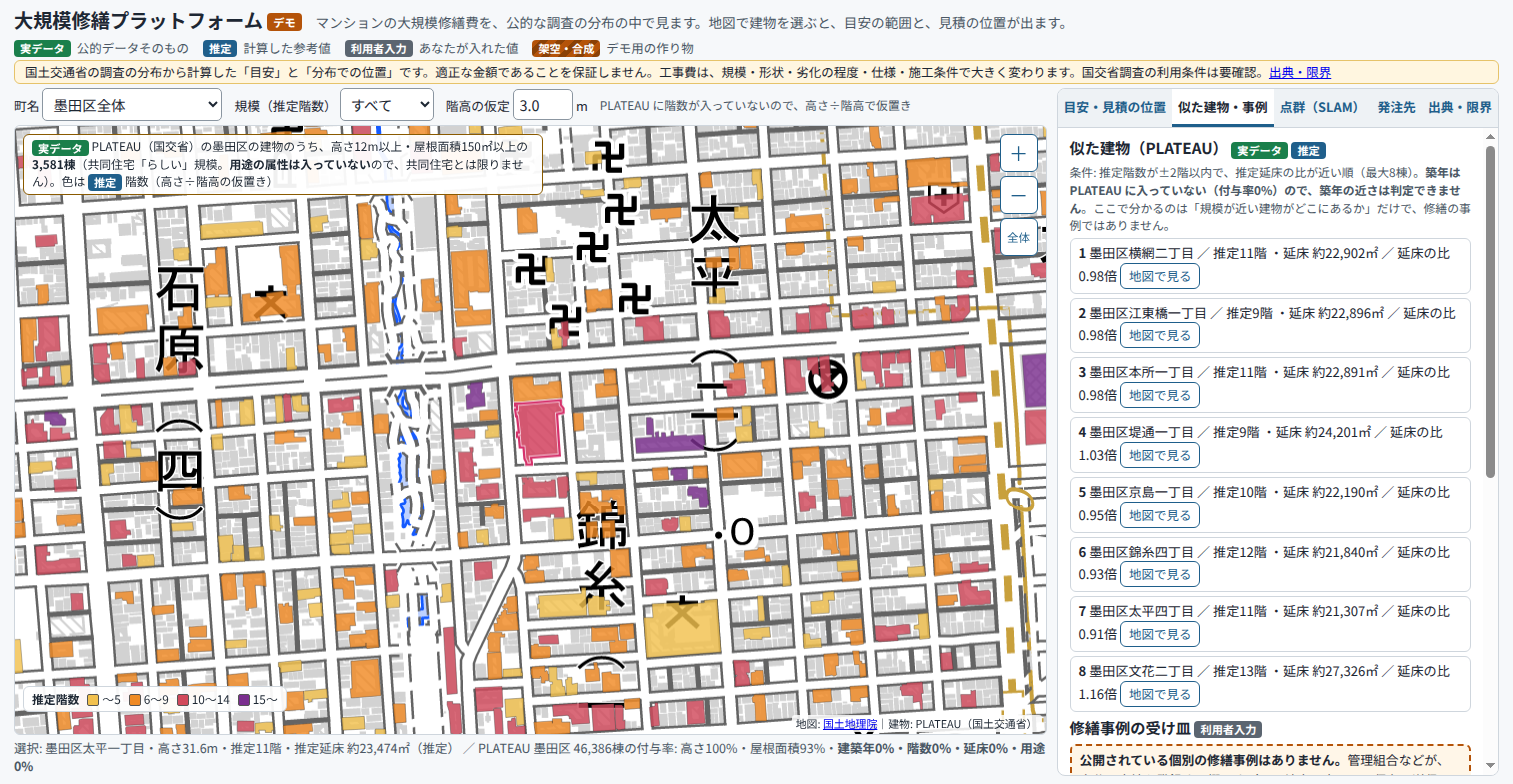
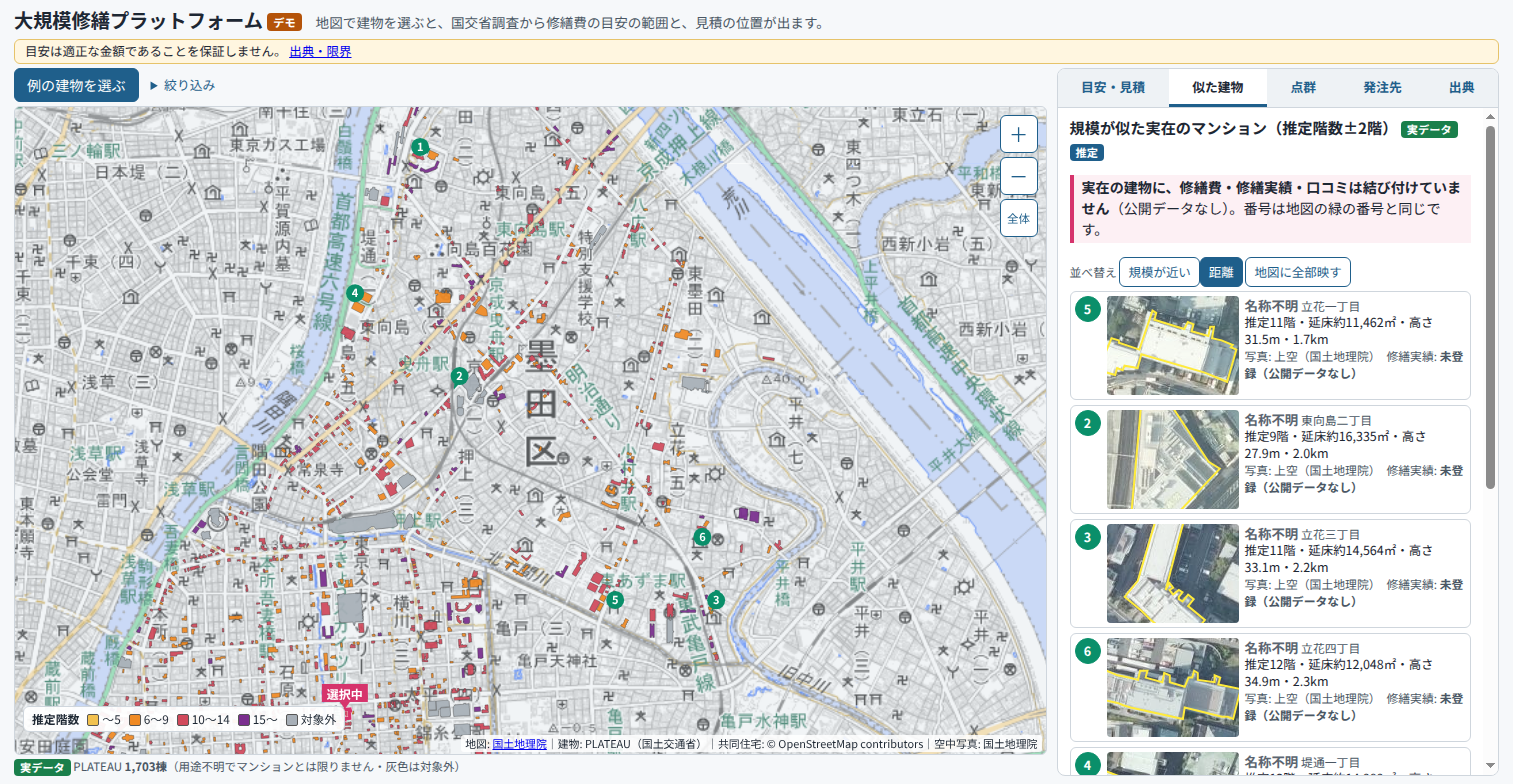
大規模修繕: 地図に全部映すボタン・README・画面確認の画像・外観写真の探索結果（採用0）

diff --git a/contests/ichibiz-2026/app/repair-platform/web/app.js b/contests/ichibiz-2026/app/repair-platform/web/app.js
@@ -448,15 +448,16 @@
       const key = { near: null, km: (x) => (x.km == null ? 1e9 : x.km) }[state.simSort];
       const rows = key ? state.simList.slice().sort((a, b) => key(a) - key(b)) : state.simList;
       const sb = (k, label) => '<button type="button" class="pick' + (state.simSort === k ? ' on' : '') + '" data-sort="' + k + '" aria-pressed="' + (state.simSort === k) + '">' + label + '</button>';
-      h += '<p class="mini">並べ替え ' + sb('near', '規模が近い') + sb('km', '距離') + '</p>';
+      h += '<p class="mini">並べ替え ' + sb('near', '規模が近い') + sb('km', '距離') + ' <button type="button" class="pick" id="fitSim">地図に全部映す</button></p>';
       h += '<ul class="aptgrid">' + rows.map(simCard).join('') + '</ul>';
     }
     h += '<details class="mini"><summary>出典・選び方</summary><ul class="list">' +
       '<li>「マンション」= OpenStreetMap で建物の種別が共同住宅（apartments・residential・dormitory）とされ、PLATEAU の建物の内側に位置が入ったもの' + (om ? '（墨田区 ' + L.fmt(om.osmWays, 0) + ' 件のうち、地図に出る規模の ' + L.fmt(om.matched, 0) + ' 棟。名前があるのは ' + L.fmt(om.named, 0) + ' 棟）' : '') + '。名前は OpenStreetMap にあるものだけ。無いものは「名称不明」（町丁目で区別）。住戸・居住者の情報は扱いません。</li>' +
-      '<li>上空写真: <a href="https://maps.gsi.go.jp/development/ichiran.html" target="_blank" rel="noopener noreferrer">国土地理院 シームレス空中写真</a>（建物の外形線は PLATEAU）。外観写真は Wikimedia Commons で商用利用できるライセンスのものが見つかった建物だけ。</li>' +
+      '<li>上空写真: <a href="https://maps.gsi.go.jp/development/ichiran.html" target="_blank" rel="noopener noreferrer">国土地理院 シームレス空中写真</a>（建物の外形線は PLATEAU）。外観写真は Wikimedia Commons で商用利用できるライセンスのものが見つかった建物だけ（今は0棟。上空写真のみ）。</li>' +
       '<li>名称・種別: © <a href="https://www.openstreetmap.org/copyright" target="_blank" rel="noopener noreferrer">OpenStreetMap contributors</a>（ODbL）。階数・延床は PLATEAU の高さ・屋根面積からの推定。</li></ul></details>';
     $('simOut').innerHTML = h;
     bindPicks($('simOut'));
+    if ($('fitSim')) $('fitSim').onclick = () => { fitTo(boundsOfList(state.simList.map((x) => x.b).concat(state.sel ? [state.sel] : [])), 40); schedule(); if (narrow()) { mapMin(false); map.scrollIntoView({ block: 'start' }); } };
     $('simOut').querySelectorAll('[data-sort]').forEach((b) => (b.onclick = () => { state.simSort = b.dataset.sort; renderSim(); }));
     renderCases();
   }
@@ -696,7 +697,7 @@
       '<li><b>修繕費の分布</b>: ' + esc(S.publisher) + '「' + esc(S.title) + '」（<a href="' + esc(S.reportUrl) + '" target="_blank" rel="noopener noreferrer">報告書</a>、<a href="' + esc(S.summaryUrl) + '" target="_blank" rel="noopener noreferrer">概要</a>）を転記。<b>' + esc(S.license) + '</b>。</li>' +
       '<li><b>地図</b>: <a href="https://maps.gsi.go.jp/development/ichiran.html" target="_blank" rel="noopener noreferrer">国土地理院 地理院タイル（淡色地図）</a>。</li>' +
       '<li><b>共同住宅・名称</b>: © <a href="https://www.openstreetmap.org/copyright" target="_blank" rel="noopener noreferrer">OpenStreetMap contributors</a>（ODbL。Overpass API の GET で取得し、PLATEAU の建物と位置で突き合わせて同梱）。</li>' +
-      '<li><b>上空写真</b>: 国土地理院 シームレス空中写真（地理院タイルを表示時に取得）。<b>外観写真</b>: Wikimedia Commons（作者・ライセンスを各写真の下に表示' + (state.photoMeta ? '。' + state.photos.size + '棟' : '') + '）。</li></ul></details>';
+      '<li><b>上空写真</b>: 国土地理院 シームレス空中写真（地理院タイルを表示時に取得）。<b>外観写真</b>: Wikimedia Commons（作者・ライセンスを各写真の下に表示。現在の採用は ' + state.photos.size + ' 棟。半径60m の検索では建物そのものの写真が見つからなかった）。</li></ul></details>';
     h += '<details><summary>限界・プライバシー・表示の区別</summary><ul class="list"><li>' + esc(L.DISCLAIMER) + '。' + esc(L.LICENSE_NOTE) + '。' + esc(S.transcribed) + '</li><li>調査は200社・818件の工事事例で、全国を代表するとは限りません。金額は税抜・共通仮設費を含みません。</li><li>個別の修繕事例・口コミの実データは未収録で、見本は架空です。実在のマンションには修繕費・実績・口コミを結び付けていません。</li><li>階数・延床・戸数は推定（階高' + state.storeyH + 'm、1戸' + L.UNIT_SQM + '㎡の仮定）。推定' + L.SCALE_MAX.floors + '階超・延床' + L.fmt(L.SCALE_MAX.tfa, 0) + '㎡超は目安を出しません。外壁面積の誤差は未検証です。</li>' +
       '<li>入力・点群は端末内だけで扱い、送信しません。事例・口コミ・見積の比較・チェックだけ localStorage に保存します。通信は地図画像と同梱データの GET だけです。</li></ul>' +
       '<p class="mini">' + BADGE.real + ' 公的データ ' + BADGE.est + ' 計算した参考値 ' + BADGE.user + ' あなたの入力 ' + BADGE.fake + ' デモ用の作り物</p></details>';

diff --git a/contests/dashboard/src/apps/registry.ts b/contests/dashboard/src/apps/registry.ts
@@ -506,7 +506,7 @@ export const APPS: AppMeta[] = [
       { name: '背景地図', provider: '国土地理院 地理院タイル', license: '国土地理院コンテンツ利用規約' },
       { name: '共同住宅（種別・名称）', provider: '© OpenStreetMap contributors（Overpass API の GET で取得）', license: 'ODbL 1.0（出典表示。派生データも ODbL）', note: 'building=apartments・residential・dormitory の墨田区の建物を、PLATEAU の建物と位置で突き合わせて同梱。名称は OSM にあるものだけ。' },
       { name: '建物の上空写真', provider: '国土地理院 シームレス空中写真（地理院タイル）', license: '国土地理院コンテンツ利用規約（出典表示）', note: '表示時にブラウザが GET。建物の位置で切り出し、PLATEAU の外形線を重ねる。' },
-      { name: '建物の外観写真（見つかった建物だけ）', provider: 'Wikimedia Commons', license: '各写真の CC BY / CC BY-SA 等（作者・ライセンスをカードに表示）', note: '商用利用できるライセンスのものだけ。' },
+      { name: '建物の外観写真（見つかった建物だけ）', provider: 'Wikimedia Commons', license: '各写真の CC BY / CC BY-SA 等（作者・ライセンスをカードに表示）', note: '商用利用できるライセンスで、その建物を写したものだけ。検索したが該当する写真は見つからず、現在は0棟（上空写真のみ）。' },
     ],
   },
   {

diff --git a/contests/ichibiz-2026/app/repair-platform/README.md b/contests/ichibiz-2026/app/repair-platform/README.md
@@ -11,7 +11,7 @@
 |---|---|---|
 | 地図情報・建物情報 | 墨田区の PLATEAU の建物を地図に表示。建物を押すと、高さ・外周・推定階数・推定延床・外壁面積の概算 | 実データ＋推定 |
 | 適正料金を推定 | 「適正料金」は出さない。国交省調査の分布から、**目安の範囲**（下位25%値〜上位25%値）と、**見積の分布での位置**（中央値より◯%高い／上位25%に入る） | 実データ＋計算 |
-| 類似マンションの修繕情報 | 個別事例の公開データはない。PLATEAU で規模の近い建物を地図に番号で示す「似た建物」。修繕事例は、利用者が自分の実績を登録する受け皿（デモは架空と常に表示） | 実データ＋利用者入力＋架空 |
+| 類似マンションの修繕情報 | 個別事例の公開データはない。**規模の近い実在のマンション**（OpenStreetMap で共同住宅とされたもの）を、名前（あるものだけ）・町丁目・規模・上空写真つきの小さなカードで並べ、地図の番号と対応させる。**実在の建物に修繕費・実績・口コミは結び付けない**（各カードは「修繕実績: 未登録（公開データなし）」）。修繕事例は、利用者が自分の実績を登録する受け皿で、デモは「架空のデモ事例（実在の建物ではありません）」の別枠 | 実データ＋推定＋利用者入力＋架空 |
 | SLAM データ | PLY・LAS・XYZ の点群をブラウザの中で読み、外周・高さ・外壁面積を概算。見本は合成 | 利用者入力＋合成 |
 | 口コミ・価格で発注先を検討 | 公的情報へのリンク、見積比較のチェック項目、口コミの自己投稿の受け皿（デモは架空）。並びを操作できない設計 | 実データ（リンク）＋架空 |
 
@@ -19,6 +19,9 @@
 - **PLATEAU 建物**: 3D都市モデル（Project PLATEAU）東京都23区（2022年度）CityGML（v2）の建築物モデル（LOD1）。国土交通省。G空間情報センター https://www.geospatial.jp/ckan/dataset/plateau-tokyo23ku-2022 。ライセンスは PLATEAU Site Policy「3．著作権について」（https://www.mlit.go.jp/plateau/site-policy/ 、商用利用を含め無償）。**範囲は墨田区（13107）全域の 46,386 棟**。取得は HTTP Range の GET のみ（`tools/remotezip.py`。約5GB の ZIP の全体は取らず、墨田区に重なる56メッシュだけ読む）。
 - **国交省調査**: 国土交通省「令和3年度マンション大規模修繕工事に関する実態調査」報告書 https://www.mlit.go.jp/jutakukentiku/house/content/001619430.pdf と概要 https://www.mlit.go.jp/jutakukentiku/house/content/001477900.pdf 。200社・工事事例818件の集計。図表の数値を手で転記して `web/data/mlit-survey.json` に頁つきで同梱（報告書 p.13 総額、p.14 戸あたり、p.15 ㎡あたり、概要 p.1 内訳・修繕周期、報告書 p.56 発注方法）。工事金額は、共通仮設費と消費税を含まない（報告書 p.4、概要 p.1）。**この調査の二次利用条件は要確認**（情報部 R-2。PDF に表記がなく、確認できていない）。画面と本書に明記し、出典・加工（転記・計算）を表示している。
 - **地図**: 国土地理院 地理院タイル（淡色地図）。
+- **共同住宅・名称（2026-11-22 追加）**: © OpenStreetMap contributors（ODbL 1.0。https://www.openstreetmap.org/copyright ）。Overpass API の GET（`tools/fetch_osm.py`）で、墨田区の `building=apartments|residential|dormitory` の建物 6,293 件を取り、中心点が PLATEAU の候補建物（3,581 棟）の外形の内側に入るものだけを突き合わせた。**結果は 543 棟（apartments 468・residential 74・dormitory 1）、うち OSM に名前（name タグ）があるのは 81 棟**。1つの PLATEAU 建物に複数の OSM 建物が当たったときは名前のあるほうを残す。結果は `web/data/osm.json`（PLATEAU の建物ID・種別・名称）。名前は OSM にあるものだけで、補わない。名前の無い 462 棟は「名称不明」＋町丁目。PLATEAU の名称（124 棟）は学校・病院・郵便局などの公共施設で、共同住宅ではないので使わない。OSM の登録は不完全なので、実在のマンションの全部ではない（墨田区で地図に出る規模の建物 3,581 棟のうち 543 棟）。
+- **上空写真**: 国土地理院 シームレス空中写真（地理院タイル `seamlessphoto`、https://maps.gsi.go.jp/development/ichiran.html 、出典表示）。カードごとに、建物の位置を中心に z18 のタイル 4 枚から 132×99px を切り出し、PLATEAU の外形線（黄）を重ねる。ブラウザが表示時にタイルを GET するだけで、画像は同梱しない。
+- **外観写真**: Wikimedia Commons の CC BY / CC BY-SA / CC0 等で、作者・ライセンスを表示できるものだけに限る設計（`web/data/photos.json`、`tools/fetch_commons.py`）。**現在の採用は 0 棟**。名前のある 81 棟の半径 60m にある画像（座標つき）を探して候補 30 枚を得たが、いずれもスカイツリー・飲食店・駅など別のもので、その建物を写したものは無かった（目で確認）。見つからなかった建物に、近くの別の写真を付けることはしない。Google ストリートビュー等、規約上使えないものは使わない。
 - 不動産情報ライブラリは使っていない。
 
 ## PLATEAU の属性の付与率（情報部 R-4 の実測）
@@ -61,7 +64,7 @@
   - 建物を押すと、延床（推定）と戸数（推定: 延床÷70㎡の仮定）を入れ、すぐに目安の範囲を出す。推定の欄には「推定」の印。利用者が入れた値が優先。
   - 推定40階超・延床50,000㎡超は「マンションの規模ではない可能性が高い」として目安を出さない。延床800㎡未満は警告。いずれも設計上の線引きで、根拠のある統計値ではない。
   - 1戸あたり延床が30〜150㎡の外なら「戸数と延床が合っていません」と出し、延床あたりの範囲と位置は出さない。主指標は戸あたり（戸数が無ければ延床あたり）。総額の位置は「根拠」の中の参考に格下げ。中央値の10倍を超える比率は「桁を確認」。
-- タブ「似た建物」: 推定階数±2階で、延床・高さ・外周・距離が近い順（同じ町・同じ規模の重複はまとめる）。各棟に延床×㎡あたりの目安。修繕事例（見本・架空）は折りたたみ。
+- タブ「似た建物」: OSM で共同住宅とされた 543 棟のうち、推定階数±2階で、延床・高さ・外周・距離が近い 6 棟を小さなカードで並べる（同じ町・同じ規模の重複はまとめる。名前の分かる建物は規模の比で約16%の差までは先に並べる＝並びへのわずかな優遇。「規模が近い」「距離」で並べ替え、「地図に全部映す」で地図を引く）。カード＝番号（地図の緑の番号と同じ。押すとその建物を選ぶ）・上空写真・名前または「名称不明」・町丁目・推定階数・延床（推定）・高さ・距離・写真の種類（上空／外観）・「修繕実績: 未登録（公開データなし）」。**金額・口コミ・評価の数値は出さない**（旧版の「延床×㎡あたりの目安」の試算列は、実在の建物に金額が付くので廃止）。住戸・居住者の情報は扱わず、住所は町丁目まで。修繕事例（見本）は別枠で「架空のデモ事例（実在の建物ではありません）」。
 - タブ「点群」: 見本の読み込みを先頭に。限界は1行（詳細は折りたたみ）。結果は外壁面積と、点群・地図の外壁面積それぞれで「見積の外壁関係（調査の平均比率で配分）÷面積」の単価の表。
 - タブ「発注先比較」: 見積を3社分（会社名・金額）入れ、各社の目安の中の位置と口コミ件数（利害関係ありの件数）を表に、各社の印を同じ範囲バーに並べる。口コミ（架空）・チェック項目・公的リンクは折りたたみ。
 - タブ「出典」: 出典・加工・責任、限界、付与率（折りたたみ）、プライバシー。
@@ -90,14 +93,19 @@
 | `web/data/buildings.json` | PLATEAU 墨田区の候補 3,581 棟（外形・高さ・面積・外周・町名）と付与率 |
 | `web/data/mlit-survey.json` | 国交省調査の転記（頁つき） |
 | `web/data/demo.json` | 架空のデモ（事例3・口コミ4） |
+| `web/data/osm.json` | OSM の共同住宅 543 棟（名前81）と PLATEAU の建物IDの対応（ODbL） |
+| `web/data/photos.json` | 外観写真（Wikimedia Commons）。採用0件 |
+| `tools/fetch_osm.py` `fetch_commons.py` | OSM の取得・突き合わせ、Commons の写真候補の検索（GET のみ。`python3 -I tools/fetch_osm.py <出力>`） |
 | `tools/remotezip.py` `extract_plateau.py` `peek.py` `list_meshes.py` | PLATEAU の取得・抽出・付与率調査（GET のみ。`python3 -I tools/extract_plateau.py`） |
-| `tests/lib_test.js` | ロジックのテスト（`node --test tests/lib_test.js`） |
+| `tests/lib_test.js` `apartments_test.js` | ロジックと、OSM の突き合わせ・写真・実在の建物に金額を結び付けないことのテスト（`node --test tests/lib_test.js tests/apartments_test.js`） |
 | `tests/ui_check.mjs` | 実ブラウザの確認（`node tests/ui_check.mjs <url> docs`。要 google-chrome） |
 | `docs/` | 1513×784 と 390×844 のスクリーンショット |
 
 実行: `cd web && python3 -m http.server 8883 --bind 127.0.0.1` を開く（file:// では fetch できない）。統合ダッシュボードには `biz-repair` として登録（iframe で埋め込み）。
 
 ## 未解決・改善の余地（指示外なので実装していない）
+- 名前のある実在のマンションは 81 棟（錦糸町周辺が多い）で、似た建物に出る名前付きは多くない。OSM の登録が増えるか、別の公的な建物名データ（利用条件の確認が要る）で補う。OSM のタグ（`building:levels` 等）は階数の推定の確認に使えるが、付与率は未調査。
+- 外観写真は0件。建物ごとの Commons カテゴリ（Wikidata 経由）を使えば見つかる可能性があるが、未実施。
 - 建築年・階数・延床・用途が入ったデータが要る。東京都の 3D デジタルマップ（都市計画基礎調査の属性を持つとされる。付与率・利用条件は未確認）の確認が次の一手。
 - 国交省調査の戸数規模別（9分類）の表を使うと、規模による目安の差を反映できる（R-3 は未実施）。
 - 国交省調査の二次利用条件の確認（R-2）。ネガティブ情報等検索サイトなどの規約確認（R-11）。公取委の事業者数・件数の確認（R-6。画面では個社名・件数を出していない）。
